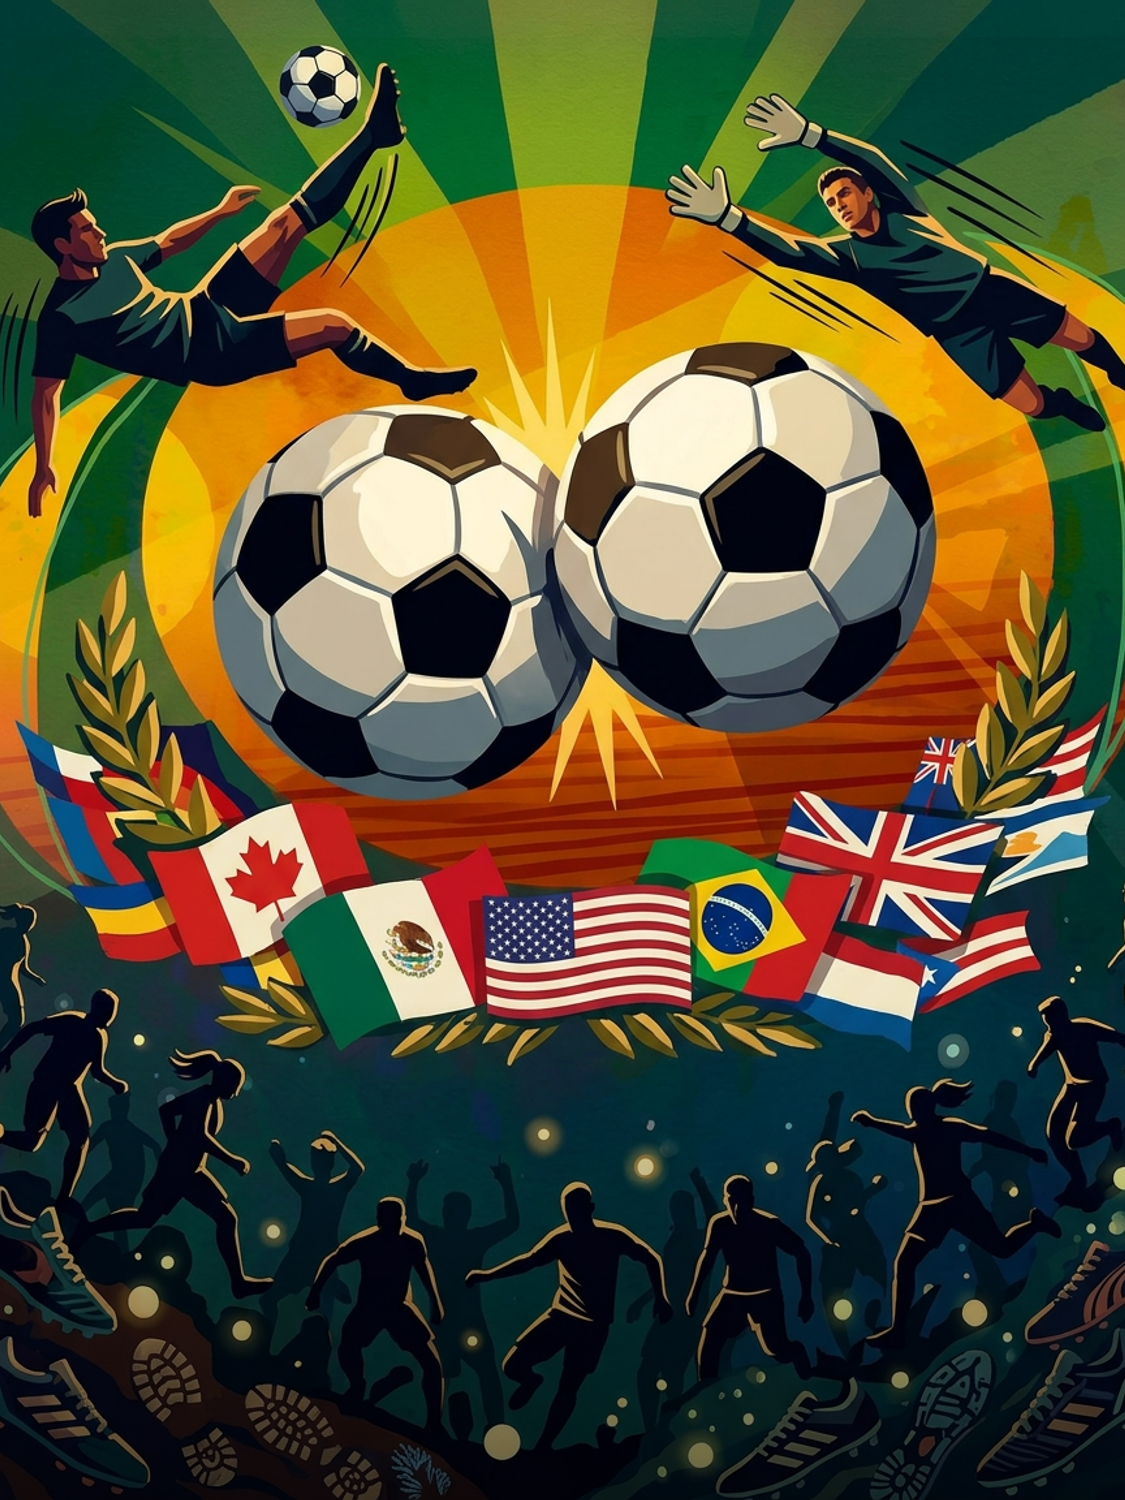
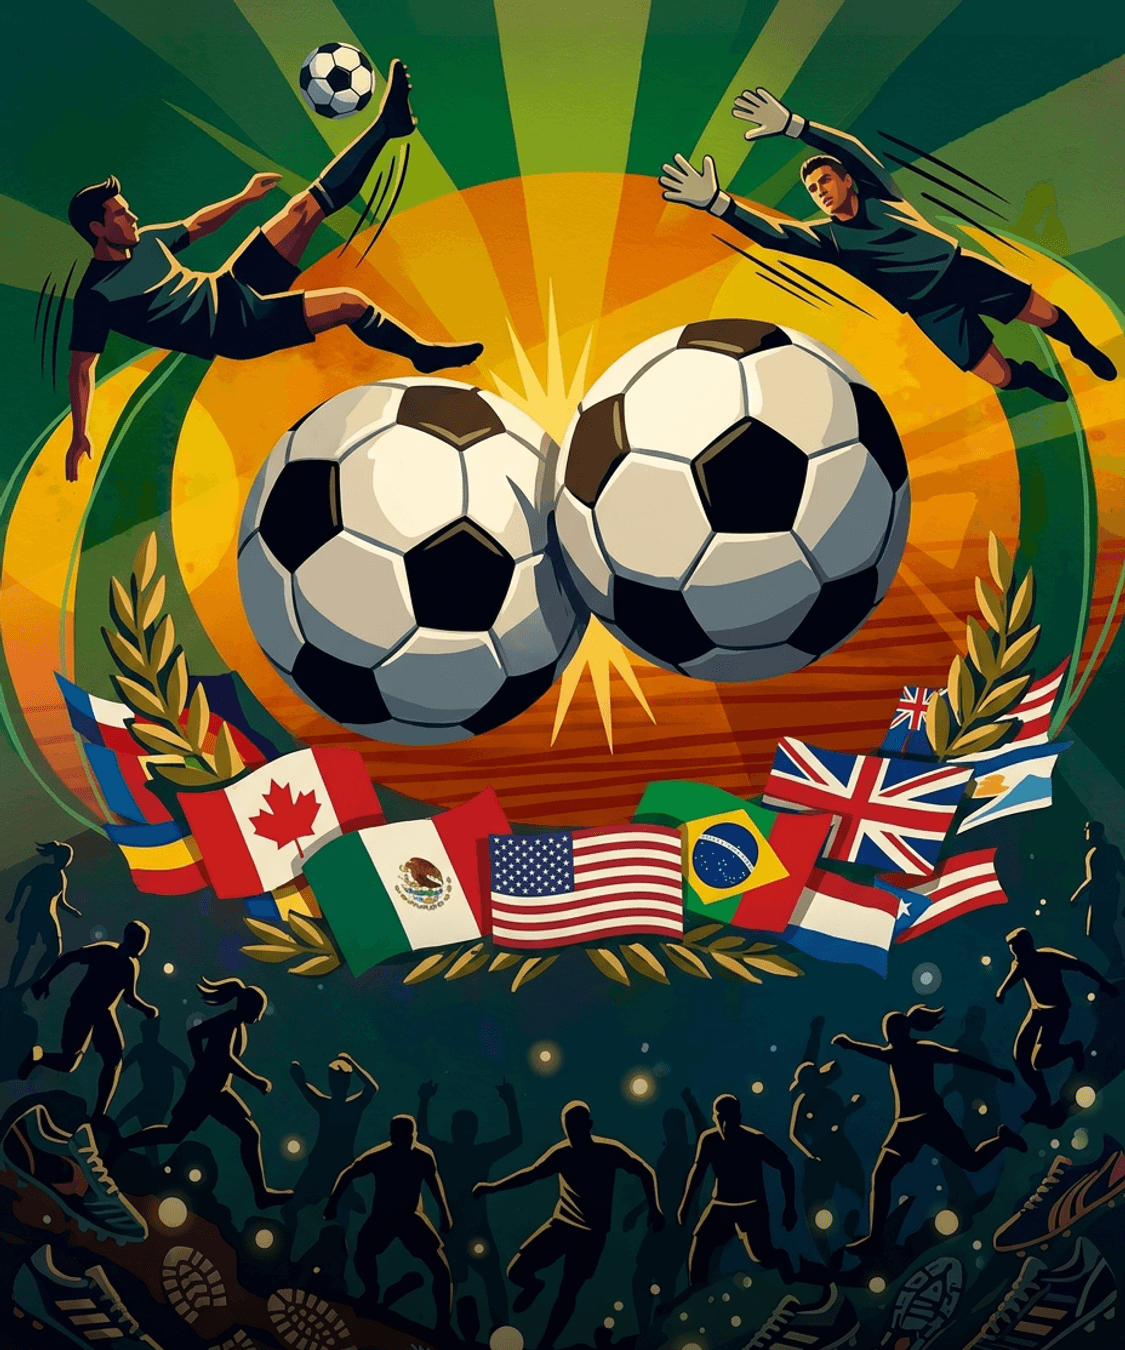
Revert to background.png, compressed sizes (73K/226K/457K)

diff --git a/src/pass-generator.ts b/src/pass-generator.ts
@@ -27,9 +27,9 @@ const icon2x = readFileSync(join(ROOT, "assets", "[email redacted]"));
 const icon3x = readFileSync(join(ROOT, "assets", "[email redacted]"));
 const logo = readFileSync(join(ROOT, "assets", "logo.png"));
 const logo2x = readFileSync(join(ROOT, "assets", "[email redacted]"));
-const strip = readFileSync(join(ROOT, "assets", "strip.png"));
-const strip2x = readFileSync(join(ROOT, "assets", "[email redacted]"));
-const strip3x = readFileSync(join(ROOT, "assets", "[email redacted]"));
+const background = readFileSync(join(ROOT, "assets", "background.png"));
+const background2x = readFileSync(join(ROOT, "assets", "[email redacted]"));
+const background3x = readFileSync(join(ROOT, "assets", "[email redacted]"));
 
 export function getSerialNumber(): string {
   return SERIAL_NUMBER;
@@ -74,9 +74,9 @@ export async function generatePass(webServiceURL: string): Promise<Buffer> {
       "[email redacted]": icon3x,
       "logo.png": logo,
       "[email redacted]": logo2x,
-      "strip.png": strip,
-      "[email redacted]": strip2x,
-      "[email redacted]": strip3x,
+      "background.png": background,
+      "[email redacted]": background2x,
+      "[email redacted]": background3x,
       "pass.json": Buffer.from(JSON.stringify(passJson)),
     },
     { wwdr, signerCert, signerKey },

diff --git a/src/gen-assets.ts b/src/gen-assets.ts
@@ -72,10 +72,10 @@ await Promise.all([
   makeIcon(87, join(ASSETS, "[email redacted]")),
   makeTransparentLogo(160, 50, join(ASSETS, "logo.png")),
   makeTransparentLogo(320, 100, join(ASSETS, "[email redacted]")),
-  // strip height spec: 196pt @1x — keep dimensions tight so the pkpass stays small
-  makeBackground(BG_SRC, 375, 196, join(ASSETS, "strip.png")),
-  makeBackground(BG_SRC, 750, 392, join(ASSETS, "[email redacted]")),
-  makeBackground(BG_SRC, 1125, 588, join(ASSETS, "[email redacted]")),
+  // background.png — full pass width, capped height, max compression to keep pkpass fast
+  makeBackground(BG_SRC, 375, 450, join(ASSETS, "background.png")),
+  makeBackground(BG_SRC, 750, 900, join(ASSETS, "[email redacted]")),
+  makeBackground(BG_SRC, 1125, 1350, join(ASSETS, "[email redacted]")),
 ]);
 
 console.log("assets generated in", ASSETS);